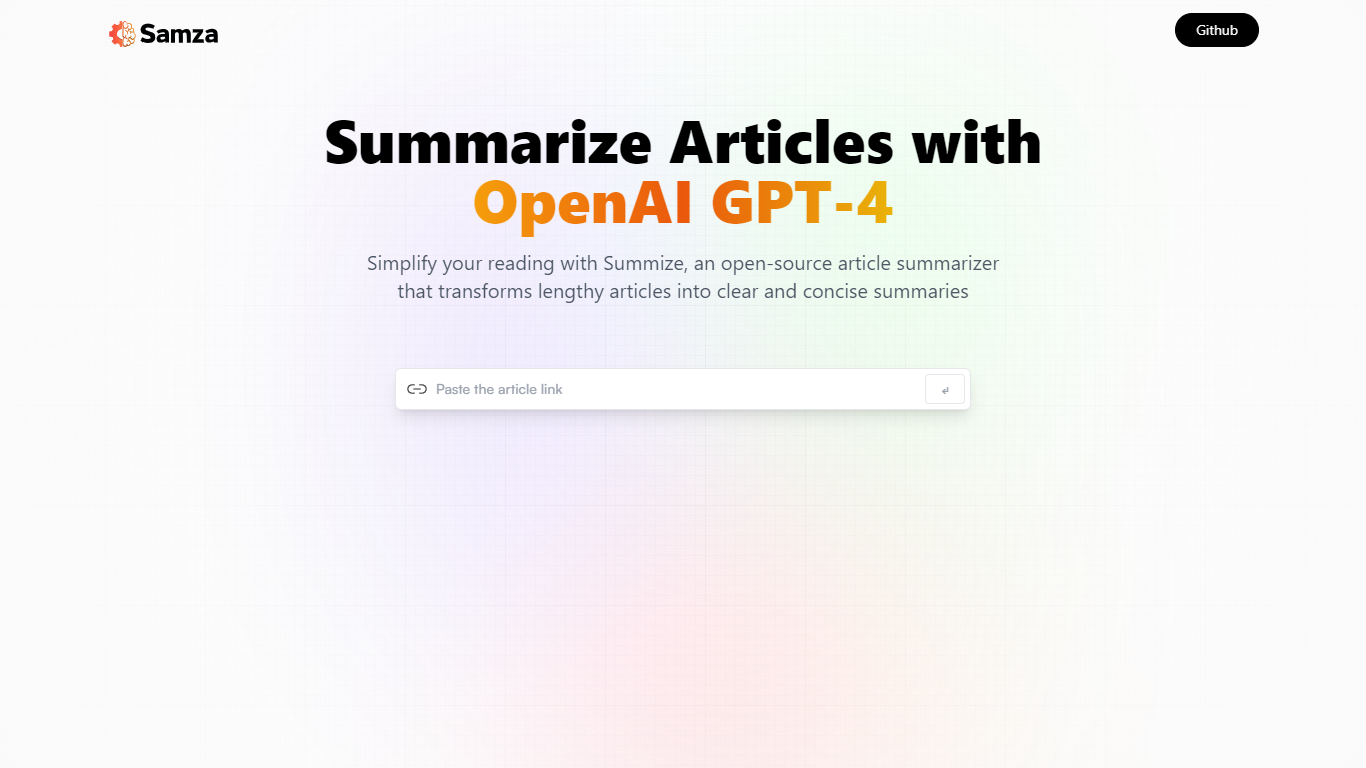
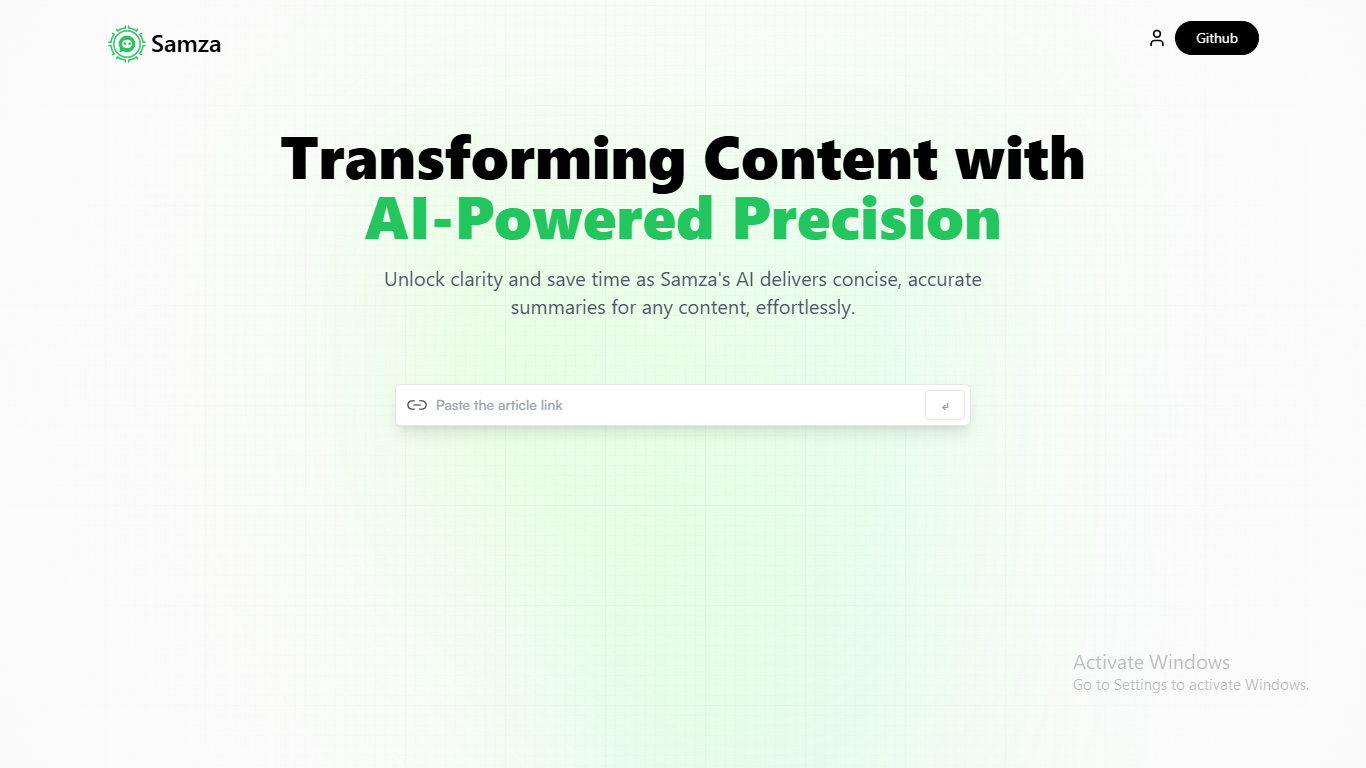
Remastered Samza

diff --git a/src/components/Summarizer.jsx b/src/components/Summarizer.jsx
@@ -3,7 +3,7 @@ import React, { useState, useEffect } from "react";
 import { copy, linkIcon, loader, tick } from "../assets";
 import { useLazyGetSummaryQuery } from "../services/article";
 
-const Demo = () => {
+const Summarizer = () => {
   const [article, setArticle] = useState({
     url: "",
     summary: "",
@@ -60,52 +60,52 @@ const Demo = () => {
   };
 
   return (
-    <section className='mt-16 w-full max-w-xl'>
+    <section className="mt-16 w-full max-w-xl">
       {/* Search */}
-      <div className='flex flex-col w-full gap-2'>
+      <div className="flex flex-col w-full gap-2">
         <form
-          className='relative flex justify-center items-center'
+          className="relative flex justify-center items-center"
           onSubmit={handleSubmit}
         >
           <img
             src={linkIcon}
-            alt='link-icon'
-            className='absolute left-0 my-2 ml-3 w-5'
+            alt="link-icon"
+            className="absolute left-0 my-2 ml-3 w-5"
           />
 
           <input
-            type='url'
-            placeholder='Paste the article link'
+            type="url"
+            placeholder="Paste the article link"
             value={article.url}
             onChange={(e) => setArticle({ ...article, url: e.target.value })}
             onKeyDown={handleKeyDown}
-            required
-            className='url_input peer' // When you need to style an element based on the state of a sibling element, mark the sibling with the peer class, and use peer-* modifiers to style the target element
+            requirede
+            className="url_input peer"
           />
           <button
-            type='submit'
-            className='submit_btn peer-focus:border-gray-700 peer-focus:text-gray-700 '
+            type="submit"
+            className="submit_btn peer-focus:border-gray-700 peer-focus:text-gray-700 "
           >
             <p>↵</p>
           </button>
         </form>
 
         {/* Browse History */}
-        <div className='flex flex-col gap-1 max-h-60 overflow-y-auto'>
+        <div className="flex flex-col gap-1 max-h-60 overflow-y-auto">
           {allArticles.reverse().map((item, index) => (
             <div
               key={`link-${index}`}
               onClick={() => setArticle(item)}
-              className='link_card'
+              className="link_card"
             >
-              <div className='copy_btn' onClick={() => handleCopy(item.url)}>
+              <div className="copy_btn" onClick={() => handleCopy(item.url)}>
                 <img
                   src={copied === item.url ? tick : copy}
                   alt={copied === item.url ? "tick_icon" : "copy_icon"}
-                  className='w-[40%] h-[40%] object-contain'
+                  className="w-[40%] h-[40%] object-contain"
                 />
               </div>
-              <p className='flex-1 font-satoshi text-blue-700 font-medium text-sm truncate'>
+              <p className="flex-1 font-satoshi text-neutral-600 font-medium text-sm truncate">
                 {item.url}
               </p>
             </div>
@@ -114,25 +114,25 @@ const Demo = () => {
       </div>
 
       {/* Display Result */}
-      <div className='my-10 max-w-full flex justify-center items-center'>
+      <div className="my-10 max-w-full flex justify-center items-center">
         {isFetching ? (
-          <img src={loader} alt='loader' className='w-20 h-20 object-contain' />
+          <img src={loader} alt="loader" className="w-20 h-20 object-contain" />
         ) : error ? (
-          <p className='font-inter font-bold text-black text-center'>
+          <p className="font-inter font-bold text-black text-center">
             Well, that wasn't supposed to happen...
             <br />
-            <span className='font-satoshi font-normal text-gray-700'>
+            <span className="font-satoshi font-normal text-gray-700">
               {error?.data?.error}
             </span>
           </p>
         ) : (
           article.summary && (
-            <div className='flex flex-col gap-3'>
-              <h2 className='font-satoshi font-bold text-gray-600 text-xl'>
-                Article <span className='blue_gradient'>Summary</span>
+            <div className="flex flex-col gap-3">
+              <h2 className="font-satoshi font-bold text-gray-600 text-xl">
+                Article <span className="green_gradient">Summary</span>
               </h2>
-              <div className='summary_box'>
-                <p className='font-inter font-medium text-sm text-gray-700'>
+              <div className="summary_box">
+                <p className="font-inter font-medium text-sm text-gray-700">
                   {article.summary}
                 </p>
               </div>
@@ -144,4 +144,4 @@ const Demo = () => {
   );
 };
 
-export default Demo;
+export default Summarizer;

diff --git a/src/App.css b/src/App.css
@@ -2,10 +2,6 @@
 @tailwind components;
 @tailwind utilities;
 
-/* 
-  Note: The styles for this gradient grid background is heavily inspired by the creator of this amazing site (https://dub.sh) – all credits go to them! 
-*/
-
 .main {
   width: 100vw;
   min-height: 100vh;
@@ -45,15 +41,15 @@
   max-width: 640px;
   background-image: radial-gradient(
       at 27% 37%,
-      hsla(215, 98%, 61%, 1) 0px,
+      hsla(125, 98%, 61%, 1) 0px,
       transparent 0%
     ),
     radial-gradient(at 97% 21%, hsla(125, 98%, 72%, 1) 0px, transparent 50%),
-    radial-gradient(at 52% 99%, hsla(354, 98%, 61%, 1) 0px, transparent 50%),
-    radial-gradient(at 10% 29%, hsla(256, 96%, 67%, 1) 0px, transparent 50%),
-    radial-gradient(at 97% 96%, hsla(38, 60%, 74%, 1) 0px, transparent 50%),
-    radial-gradient(at 33% 50%, hsla(222, 67%, 73%, 1) 0px, transparent 50%),
-    radial-gradient(at 79% 53%, hsla(343, 68%, 79%, 1) 0px, transparent 50%);
+    radial-gradient(at 52% 99%, hsla(126, 98%, 61%, 1) 0px, transparent 50%),
+    radial-gradient(at 10% 29%, hsla(110, 96%, 67%, 1) 0px, transparent 50%),
+    radial-gradient(at 97% 96%, hsla(138, 60%, 74%, 1) 0px, transparent 50%),
+    radial-gradient(at 33% 50%, hsla(98, 67%, 73%, 1) 0px, transparent 50%),
+    radial-gradient(at 79% 53%, hsla(128, 68%, 79%, 1) 0px, transparent 50%);
   position: absolute;
   content: "";
   width: 100%;
@@ -80,11 +76,11 @@
 }
 
 .head_text {
-  @apply mt-5 text-5xl font-extrabold leading-[1.15] text-black sm:text-6xl text-center;
+  @apply mt-5 text-5xl font-extrabold leading-[1.5] text-black sm:text-6xl text-center;
 }
 
-.orange_gradient {
-  @apply bg-gradient-to-r from-amber-500 via-orange-600 to-yellow-500 bg-clip-text text-transparent;
+.green_gradient {
+  @apply bg-gradient-to-r from-green-500 to-green-500 bg-clip-text text-transparent;
 }
 
 .desc {
@@ -107,13 +103,8 @@
   @apply w-7 h-7 rounded-full bg-white/10 shadow-[inset_10px_-50px_94px_0_rgb(199,199,199,0.2)] backdrop-blur flex justify-center items-center cursor-pointer;
 }
 
-.blue_gradient {
-  @apply font-black bg-gradient-to-r from-blue-600 to-cyan-600 bg-clip-text text-transparent;
-}
-
 .summary_box {
   @apply rounded-xl border border-gray-200 bg-white/20 shadow-[inset_10px_-50px_94px_0_rgb(199,199,199,0.2)] backdrop-blur p-4;
 }
-
 
 /* ---------------------------- */

diff --git a/src/components/Hero.jsx b/src/components/Hero.jsx
@@ -1,29 +1,20 @@
-import { logo } from '../assets';
+import Navbar from "./Navbar";
 
 const Hero = () => {
-    return (
-        <header className='w-full flex justify-center items-center flex-col'>
-            <nav className='flex justify-between items-center w-full mb-10 pt-3'>
-                <img src={logo} alt="sumz_logo" className='w-28 mt-2 object-contain' />
+  return (
+    <header className="w-full flex justify-center items-center flex-col">
+      <Navbar />
 
-                <button
-                    type='button'
-                    onClick={() => window.open('https://github.com/MuhammadKaifNazeer/samza')}
-                    className='black_btn'
-                >
-                    Github
-                </button>
-            </nav>
+      <h1 className="head_text">
+        Transforming Content with <br className="max-md:hidden" />
+        <span className="green_gradient">AI-Powered Precision</span>
+      </h1>
+      <h2 className="desc">
+        Unlock clarity and save time as Samza&apos;s AI delivers concise,
+        accurate summaries for any content, effortlessly.
+      </h2>
+    </header>
+  );
+};
 
-            <h1 className='head_text'>
-                Summarize Articles with <br className='max-md:hidden' />
-                <span className="orange_gradient">OpenAI GPT-4</span>
-            </h1>
-            <h2 className='desc'>
-                Simplify your reading with Summize, an open-source article summarizer that transforms lengthy articles into clear and concise summaries
-            </h2>
-        </header>
-    )
-}
-
-export default Hero
+export default Hero;

diff --git a/src/components/Navbar.jsx b/src/components/Navbar.jsx
@@ -1,0 +1,42 @@
+import React from "react";
+
+const Navbar = () => {
+  return (
+    <nav className="flex justify-between items-center w-full mb-10 pt-3">
+      <div className="flex items-center justify-start gap-1 mt-2">
+        <img src="/logo.png" alt="logo" className="w-10 mt-1 object-contain" />
+        <h1 className="text-2xl font-semibold">Samza</h1>
+      </div>
+
+      <div className="flex items-center justify-end gap-2">
+        <svg
+          xmlns="http://www.w3.org/2000/svg"
+          width="24"
+          height="24"
+          viewBox="0 0 24 24"
+          fill="none"
+          stroke="currentColor"
+          stroke-width="2"
+          stroke-linecap="round"
+          stroke-linejoin="round"
+          class="h-5 w-5 cursor-pointer"
+          onClick={() => window.open("https://bento.me/muhammadkaifnazeer")}
+        >
+          <path d="M19 21v-2a4 4 0 0 0-4-4H9a4 4 0 0 0-4 4v2" />
+          <circle cx="12" cy="7" r="4" />
+        </svg>
+        <button
+          type="button"
+          onClick={() =>
+            window.open("https://github.com/MuhammadKaifNazeer/samza")
+          }
+          className="black_btn"
+        >
+          Github
+        </button>
+      </div>
+    </nav>
+  );
+};
+
+export default Navbar;

diff --git a/src/App.jsx b/src/App.jsx
@@ -1,6 +1,6 @@
-import Hero from './components/Hero'
-import Demo from './components/Demo'
-import './App.css';
+import Hero from "./components/Hero";
+import Summarizer from "./components/Summarizer";
+import "./App.css";
 const App = () => {
   return (
     <main>
@@ -10,10 +10,10 @@ const App = () => {
 
       <div className="app">
         <Hero />
-        <Demo />
+        <Summarizer />
       </div>
     </main>
-  )
-}
+  );
+};
 
-export default App
+export default App;

diff --git a/src/assets/index.js b/src/assets/index.js
@@ -1,13 +1,6 @@
-import linkIcon from './link.svg'
-import loader from './loader.svg'
-import copy from './copy.svg'
-import logo from './logo.svg'
-import tick from './tick.svg'
+import linkIcon from "./link.svg";
+import loader from "./loader.svg";
+import copy from "./copy.svg";
+import tick from "./tick.svg";
 
-export {
-    linkIcon,
-    loader,
-    copy,
-    logo,
-    tick
-}
+export { linkIcon, loader, copy, tick };

diff --git a/index.html b/index.html
@@ -14,7 +14,7 @@
       href="https://fonts.googleapis.com/css2?family=Inter:wght@100;200;300;400;500;600;700;800;900&display=swap"
       rel="stylesheet"
     />
-    <title>OpenAI Article Summarizer</title>
+    <title>Samza - AI Article Summarizer</title>
   </head>
   <body>
     <div id="root"></div>
